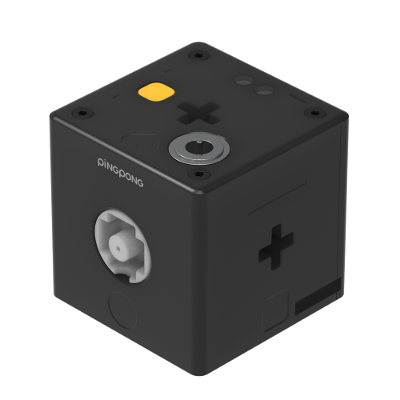
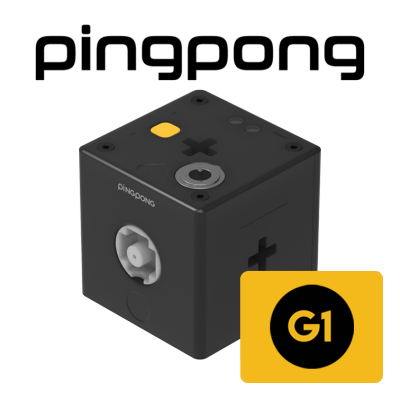
(PINGPONG) 핑퐁G1 image 변경, 코드정리

diff --git a/app/modules/pingpong_g1.js b/app/modules/pingpong_g1.js
@@ -72,23 +72,6 @@ class pingpong_g1 extends BaseModule {
                 0x00,
                 0x0d,
             ]);
-        } else if (method === 'setColorLed') {
-            result = Buffer.from([
-                0xff,
-                0xff,
-                0x00,
-                0x07,
-                0x00,
-                0x00,
-                0xce,
-                0x00,
-                0x0e,
-                0x02,
-                0x00,
-                0x00,
-                0x07,
-                0x50,
-            ]);
         } else if (method === 'getSensorData') {
             result = Buffer.from([
                 0xff,
@@ -100,7 +83,7 @@ class pingpong_g1 extends BaseModule {
                 0xb8,
                 0x00,
                 0x0b,
-                10,
+                20,
                 0x01,
             ]);
         }
@@ -319,14 +302,10 @@ class pingpong_g1 extends BaseModule {
         console.log('P: connect: ');
 
         setTimeout(() => {
-            this.sp.write(this.makePackets('setColorLed'), (err) => {});
-        }, 1000);
-
-        setTimeout(() => {
             this.sp.write(this.makePackets('getSensorData'), (err) => {
                 console.log('done.........');
             });
-        }, 2000);
+        }, 1000);
     }
 
     // 하드웨어 연결 해제 시 호출됩니다.
